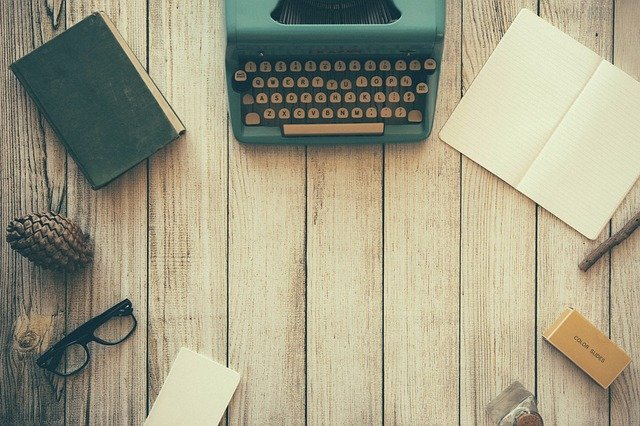
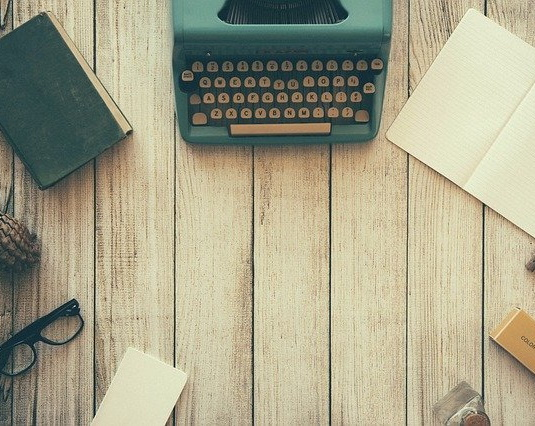
feat about me

diff --git a/_includes/newsletter-box.html b/_includes/newsletter-box.html
@@ -1,7 +1,7 @@
 <section class="newsletter-box inner-wide">
     <div class="inner">
         <h2 class="newsletter-box-title">Subscribe to {{ site.name }} newsletter</h2>
-        <p>Get the latest and greatest from {{ site.name }} delivered straight to your inbox every week.</p>
+        <p>Get the latest and greatest from {{ site.author.name }} delivered straight to your inbox every week.</p>
         <!-- Begin MailChimp Signup Form -->
         <div id="mc_embed_signup">
             <form action="{{ site.mailchimp_url }}" method="post" id="mc-embedded-subscribe-form" name="mc-embedded-subscribe-form" class="validate gh-subscribe-form" target="_blank" novalidate>

diff --git a/assets/css/style.scss b/assets/css/style.scss
@@ -742,6 +742,10 @@
   color: $color-accent;
 }
 
+a:hover{
+  color: $color-accent !important;
+}
+
 .widget-recent-posts ul {
   list-style: none;
   padding: 0;

diff --git a/awesome-links.md b/awesome-links.md
@@ -1,208 +1,88 @@
 ---
 layout: page
-title: Style Guide
-featured_image: /assets/images/pages/style_guides.jpg
+title: Awesome Links
+featured_image: /assets/images/pages/library-2507902_1280.jpg
+date_update_programming: 2019-11-30
+date_update_business: 2019-11-30
+date_update_ux: 2019-11-30
+date_update_random: 2019-11-30
 ---
 
-This is a pragraph. Pellentesque habitant [morbi tristique](https://example.com) senectus et netus et malesuada fames ac turpis egestas. Vestibulum tortor quam, feugiat vitae, ultricies eget, tempor sit amet, ante. Donec eu libero sit amet quam egestas semper. Aenean ultricies mi vitae est. Mauris placerat eleifend leo. Quisque sit amet est et sapien ullamcorper pharetra. Vestibulum erat wisi, condimentum sed, commodo vitae, ornare sit amet, wisi. Aenean fermentum, elit eget tincidunt condimentum, eros ipsum rutrum orci, sagittis tempus lacus enim ac dui. Donec non enim in turpis pulvinar facilisis. Ut felis.
+Here i'll try to keep an updated curated list of awesome things on topics like software programming, UX, business and other <i>interesting</i>[^1] topics.
 
-## Images
+[^1]: Warning : individual interest toward the topics may vary
 
-Wide image with caption.
-
-{% include image-caption.html imageurl="/assets/images/posts/2018/8.jpg#wide" title="Concrete roads" caption="This is caption" %}
-
-Images work too! Already know the URL of the image you want to include in your article? Simply paste it in like this to make it show up:
-
-![Water in a shallow mountain valley in Kluane National Park](https://images.unsplash.com/photo-1464822759023-fed622ff2c3b?ixlib=rb-0.3.5&q=80&fm=jpg&crop=entropy&cs=tinysrgb&w=1080&fit=max&ixid=eyJhcHBfaWQiOjExNzczfQ&s=903ce89f0256e0c19cde669fc69270a0#wide)
-<small>Photo by [Kalen Emsley](https://unsplash.com/@kalenemsley?utm_source=ghost&utm_medium=referral&utm_campaign=api-credit) / [Unsplash](https://unsplash.com/?utm_source=ghost&utm_medium=referral&utm_campaign=api-credit)</small>
-
-One neat trick which you can use in Markdown to distinguish between different types of images is to add a #hash value to the end of the source URL, and then target images containing the hash with special styling. For example, to add a wider image, you need to add the #wide value to the end of the source URL.
-
-### Align Left
-
-![Fog circling above snowy mountains leading down to Iceberg lake surrounded by trees](https://images.unsplash.com/photo-1455158484047-1b906dbbadc6?ixlib=rb-0.3.5&q=80&fm=jpg&crop=entropy&cs=tinysrgb&w=1080&fit=max&ixid=eyJhcHBfaWQiOjExNzczfQ&s=cf2c751fe1147c2cc5ab9397fcba76bf#left)
-
-Lorem ipsum dolor sit amet, `consectetuer adipiscing` elit. Morbi commodo, ipsum sed pharetra gravida, orci magna rhoncus neque, id pulvinar odio lorem non turpis. Nullam sit amet enim. Suspendisse id velit vitae ligula volutpat condimentum. Aliquam erat volutpat. Sed quis velit. Nulla facilisi. Lorem ipsum dolor sit amet, consectetur adipiscing elit. Cras pulvinar tincidunt turpis ac fringilla. Mauris eget dolor neque. Donec ac ex quis lectus sagittis vestibulum.
-
-### Align Right
-
-![Snow-covered mountains shrouded in mist and clouds](https://images.unsplash.com/photo-1444090695923-48e08781a76a?ixlib=rb-0.3.5&q=80&fm=jpg&crop=entropy&cs=tinysrgb&w=1080&fit=max&ixid=eyJhcHBfaWQiOjExNzczfQ&s=d0f0fe2369ca9bfc024373d3ec30dcc2#right)
-
-Lorem ipsum dolor sit amet, `consectetuer adipiscing` elit. Morbi commodo, ipsum sed pharetra gravida, orci magna rhoncus neque, id pulvinar odio lorem non turpis. Nullam sit amet enim. Suspendisse id velit vitae ligula volutpat condimentum. Aliquam erat volutpat. Sed quis velit. Nulla facilisi. Nulla libero. Lorem ipsum dolor sit amet, `consectetuer adipiscing` elit. Morbi commodo, ipsum sed pharetra gravida, orci magna rhoncus neque, id pulvinar odio lorem non turpis.
-
-# This is an H1
-
-<mark>Quisque facilisis erat a dui</mark>. Nam malesuada ornare dolor. Cras gravida, diam sit amet rhoncus ornare, erat elit consectetuer erat, id egestas pede nibh eget odio. Proin tincidunt, velit vel porta elementum, magna diam molestie sapien, non aliquet massa pede eu diam. Aliquam iaculis. Fusce et ipsum et nulla tristique facilisis.
-
-## This is an H2
-
-Lorem ipsum dolor sit amet, consectetuer adipiscing elit. Morbi commodo, ipsum sed pharetra gravida, orci magna rhoncus neque, id pulvinar odio lorem non turpis. Nullam sit amet enim. Suspendisse id velit vitae ligula volutpat condimentum. Aliquam erat volutpat. Sed quis velit. Nulla facilisi. Nulla libero.
-
-### This is an H3
-
-Lorem ipsum dolor sit amet, consectetuer adipiscing elit. Morbi commodo, ipsum sed pharetra gravida, orci magna rhoncus neque, id pulvinar odio lorem non turpis. Nullam sit amet enim. Suspendisse id velit vitae ligula volutpat condimentum. Aliquam erat volutpat. Sed quis velit. Nulla facilisi. Nulla libero.
-
-#### This is an H4
-
-Quisque facilisis erat a dui. Nam malesuada ornare dolor. Cras gravida, diam sit amet rhoncus ornare, erat elit consectetuer erat, id egestas pede nibh eget odio. Proin tincidunt, velit vel porta elementum, magna diam molestie sapien, non aliquet massa pede eu diam. Aliquam iaculis.
-
-## Quoting
-
-Nullam sit amet enim. Suspendisse id velit vitae ligula volutpat condimentum. Aliquam erat volutpat. Sed quis velit. Nulla facilisi. Nulla libero.
-
->“Creativity is allowing yourself to make mistakes. Design is knowing which ones to keep.” <cite>― Scott Adams ―</cite>
-
-Lorem ipsum dolor sit amet, `consectetuer adipiscing` elit. Morbi commodo, ipsum sed pharetra gravida, orci magna rhoncus neque, id pulvinar odio lorem non turpis. Nullam sit amet enim. Suspendisse id velit vitae ligula volutpat condimentum. Aliquam erat volutpat. Sed quis velit. Nulla facilisi. Nulla libero.
-
---------
-
-## Code Blocks
-
-```
-// Simple map
-var map;
-function initMap() {
-  map = new google.maps.Map(document.getElementById('map'), {
-    center: {lat: -34.397, lng: 150.644},
-    zoom: 8
-  });
-}
-```
-
-Code blocks, highlighted with [Prism](http://prismjs.com/index.html).
-
-<pre><code class="language-markup">&lt;!DOCTYPE html&gt;
-&lt;html lang="en"&gt;
-&lt;head&gt;
-	&lt;meta charset="utf-8" /&gt;
-	&lt;title&gt;Prism&lt;/title&gt;
-	&lt;link rel="stylesheet" href="style.css" /&gt;
-&lt;/head&gt;
-&lt;body&gt;
-	&lt;header&gt;
-		&lt;div class="intro" data-src="templates/header-main.html" data-type="text/html"&gt;&lt;/div&gt;
-		&lt;ul id="features"&gt;
-			&lt;li&gt;Dead simple&lt;/li&gt;
-			&lt;li&gt;Light as a feather&lt;/li&gt;
-			&lt;li&gt;Extensible&lt;/li&gt;
-		&lt;/ul&gt;
-	&lt;/header&gt;
-	&lt;section id="features-full" class="language-markup"&gt;
-		&lt;h1&gt;Full list of features&lt;/h1&gt;
-		&lt;ul&gt;
-			&lt;li&gt;&lt;strong&gt;Only 2KB&lt;/strong&gt; minified &amp; gzipped (core). Each language definition adds roughly 300-500 bytes.&lt;/li&gt;
-			&lt;li&gt;Very easy to extend without modifying the code, due to Prism’s &lt;a href="#plugins"&gt;plugin architecture&lt;/a&gt;. Multiple hooks are scattered throughout the source.&lt;/li&gt;
-			&lt;li&gt;Very easy to &lt;a href="extending.html#language-definitions"&gt;define new languages&lt;/a&gt;. Only thing you need is a good understanding of regular expressions&lt;/li&gt;
-		&lt;/ul&gt;
-	&lt;/section&gt;
-	&lt;footer data-src="templates/footer.html" data-type="text/html"&gt;&lt;/footer&gt;
-&lt;/body&gt;
-&lt;/html&gt;
-</code></pre>
-
-<pre><code class="language-javascript">var Token = _.Token = function(type, content, alias, matchedStr, greedy) {
-	this.type = type;
-	this.content = content;
-	this.alias = alias;
-	// Copy of the full string this token was created from
-	this.length = (matchedStr || "").length|0;
-	this.greedy = !!greedy;
-};</code></pre>
-
-<pre><code class="language-css">@import url(http://fonts.googleapis.com/css?family=Arvo);
-
-/* Styles */
-
-body {
-	font: 100%/1.5 Questrial, sans-serif;
-	tab-size: 4;
-	hyphens: auto;
-}
-
-a {
-	color: inherit;
-}
-
-section h1 {
-	font-size: 250%;
-}
-
-section h1,
-#features li strong,
-header h2,
-footer p {
-	font: 100% Rockwell, Arvo, serif;
-}</code></pre>
-
-## Lists
-### Unordered Lists
-
-The HTML &lt;ul&gt; element represents an unordered list of items, typically rendered as a bulleted list.
-
-Usage notes:
-* The &lt;ul&gt; element is for grouping a collection of items that do not have a numerical ordering, and their order in the list is meaningless. Typically, unordered-list items are displayed with a bullet, which can be of several forms, like a dot, a circle or a squared.
-* There is no limitation to the depth and alternation of nested lists defined with the &lt;ol&gt; and &lt;ul&gt; elements.
-* The &lt;ol&gt; and &lt;ul&gt; elements both represent a list of items. They differ in that, with the &lt;ol&gt; element, the order is meaningful.
-
-### Ordered Lists
-
-The HTML &lt;ol&gt; element represents an ordered list of items, typically rendered as a numbered list.
-
-Usage notes:
-1. Typically, ordered-list items are displayed with a preceding numbering, which can be of any form, like numerals, letters or Romans numerals or even simple bullets.
-2. There is no limitation to the depth and alternation of nested lists defined with the &lt;ol&gt; and &lt;ul&gt; elements.
-3. The &lt;ol&gt; and &lt;ul&gt; both represent a list of items. They differ in the way that, with the &lt;ol&gt; element, the order is meaningful.
-
-## Footnotes
-
-The quick brown fox[^1] jumped over the lazy dog[^2].
-
-[^1]: Foxes are red
-[^2]: Dogs are usually not red
-
-Footnotes are a great way to add additional contextual details when appropriate. Ghost will automatically add footnote content to the very end of your post.
-
-## Tables
-
+# Programming
 <table>
-<caption>Table Caption</caption>
+<caption>Last update: {{ page.date_update_programming | | date: "%B %-d, %Y" }}</caption>
 <thead>
 <tr>
-   <th>Content categories</th>
-   <th>Flow content</th>
+   <th>Link</th>
+   <th>Comment</th>
   </tr>
 </thead>
  <tbody>
-  <tr>
-   <td>Permitted content</td>
-   <td>
-    An optional <code>&lt;caption&gt;</code> element;<br />
-    zero or more <code>&lt;colgroup&gt;</code> elements;<br />
-    an optional <code>&lt;thead&gt;</code> element;<br />
-    an optional <code>&lt;tfoot&gt;</code> element;
-   </td>
-  </tr>
-  <tr>
-   <td>Tag omission</td>
-   <td>None, both the start tag and the end tag are mandatory</td>
-  </tr>
-  <tr>
-   <td>Permitted parent elements</td>
-   <td>Any element that accepts flow content</td>
-  </tr>
-  <tr>
-   <td>Normative document</td>
-   <td><a href="http://www.whatwg.org/specs/web-apps/current-work/multipage/tabular-data.html#the-table-element" rel="external nofollow">HTML5, section 4.9.1</a> (<a href="http://www.w3.org/TR/REC-html40/struct/tables.html#edef-TABLE">HTML4.01, section 11.2.1</a>)</td>
-  </tr>
+    <tr>
+        <td><a href="https://github.com/sindresorhus/awesome" target="_blank"><code>Awesome</code></a></td>
+        <td>Awesome lists about all kinds of interesting topics</td>
+    </tr>
+    <tr>
+        <td>
+        <a href="https://itnext.io/choosing-a-highly-scalable-folder-structure-in-angular-d987de65ec7" target="_blank"><code>Article</code></a>
+        <br>
+        <a href="https://github.com/mathisGarberg/angular-folder-structure" target="_blank"><code>Repo</code></a>
+        </td>
+        <td> Great article on : <br>
+             <i>How to define a highly scalable folder structure for your Angular project</i>
+        </td>
+    </tr>
+    <tr>
+        <td><a href="https://www.mocky.io/" target="_blank"><code>Mocky</code></a></td>
+        <td>Online tool to mock your HTTP responses</td>
+    </tr>
+   
  </tbody>
 </table>
 
-## Videos
+# UX / Design
+<table>
+<caption>Last update: {{ page.date_update_ux | | date: "%B %-d, %Y" }}</caption>
+<thead>
+<tr>
+   <th>Link</th>
+   <th>Comment</th>
+  </tr>
+</thead>
+ <tbody>   
+     <tr>
+         <td><a href="https://pixabay.com/images/search/" target="_blank"><code>Pixabay</code></a></td>
+         <td>Royalty-Free image bank</td>
+     </tr>
+ </tbody>
+</table>
 
-<iframe src="https://player.vimeo.com/video/137643135?color=ffffff&title=0&byline=0&portrait=0" width="500" height="281" frameborder="0" webkitallowfullscreen mozallowfullscreen allowfullscreen></iframe> <p><a href="https://vimeo.com/137643135">This Mountain</a> from <a href="https://vimeo.com/evanmann">Evan Mann / OWP Denver</a> on <a href="https://vimeo.com">Vimeo</a>.</p>
+# Business
+<table>
+<caption>Last update: {{ page.date_update_business | | date: "%B %-d, %Y" }}</caption>
+<thead>
+<tr>
+   <th>Link</th>
+   <th>Comment</th>
+  </tr>
+</thead>
+ <tbody>   
+ </tbody>
+</table>
 
-## Audio
-
-<iframe width="100%" height="450" scrolling="no" frameborder="no" src="https://w.soundcloud.com/player/?url=https%3A//api.soundcloud.com/tracks/165895349&amp;auto_play=false&amp;hide_related=false&amp;show_comments=true&amp;show_user=true&amp;show_reposts=false&amp;visual=true"></iframe>
-
+# Random
+<table>
+<caption>Last update: {{ page.date_update_random | | date: "%B %-d, %Y" }}</caption>
+<thead>
+<tr>
+   <th>Link</th>
+   <th>Comment</th>
+  </tr>
+</thead>
+ <tbody>   
+ </tbody>
+</table>

diff --git a/about.md b/about.md
@@ -1,17 +1,24 @@
 ---
 layout: page
-title: About
+title: About Me
 featured_image: /assets/images/pages/about.jpg
 ---
 
-To change :)
+Boris Paccou is a developer, entrepreneur and problem solver from Lyon, France.
 
-Daniel Bennett is a senior developer from Vilnius, Lithuania. After graduating from The College with a degree in **Computer Science**, he worked for three small web shops where he honed his development skills and love for JavaScript.
+His long story with computing starts like many of the millennial with his first family computer.
+After a few years of [TI82](https://en.wikipedia.org/wiki/TI-82) _*programing*_, Dreamweaver _*designing*_ and PHP _*tryharding*_, he decided to fully commit to the software industry.
 
-His work has been recognized by Communication Arts, IBM, How, ID, IdN, AIGA, Effie, Archive, Graphis, AdFed and Rockport. **Net** magazine named him a person to watch in 2018.
+>Doing what you like is freedom. Liking what you do is happiness. <cite>Frank Tyger </cite>
 
->The world always seems brighter when you’ve just made something that wasn’t there before. <cite>Neil Gaiman</cite>
+After graduating from College with a degree in **Computer Science**, he worked in a few companies as a developer.
 
-As a hobby, Daniel authors the most influential JavaScript blog in Lithuania with over 100,000 page views a month. He lives in Vilnius with his beautiful wife, two boys and one girl.
+Later on, Boris founded and worked for 4 years at a software development company [WiSolv](https://wisolv.com).
+At that time, he also started a fast growing tech startup company [Argalis](https://argalis.fr) - he is still active in this company.
+
+His work and natural adaptability gave him the opportunity to perform in various fields  like consulting, HR, project-management, finance ...
+
+Boris is now heading towards new horizons and challenges with the formation of [nova-initiative](https://nova-initiative.com), a software development company focused on providing top-notch tailor-made solutions.
+
 
 *Thank You for reading!*

diff --git a/_posts/2019-11-30-hello-world.md b/_posts/2019-11-30-hello-world.md
@@ -2,8 +2,8 @@
 layout: post
 title:  "{{ Hello, world ! }}"
 tags: [ Life ]
-featured_image_thumbnail: assets/images/posts/2018/11_thumbnail.jpg
-featured_image: assets/images/posts/2019/typewriter-801921_640.jpg
+featured_image_thumbnail: assets/images/posts/2019/typewriter-801921_640_tn.jpg
+featured_image: assets/images/posts/2019/typewriter-801921_640_2.jpg
 featured: true
 hidden: true
 ---
